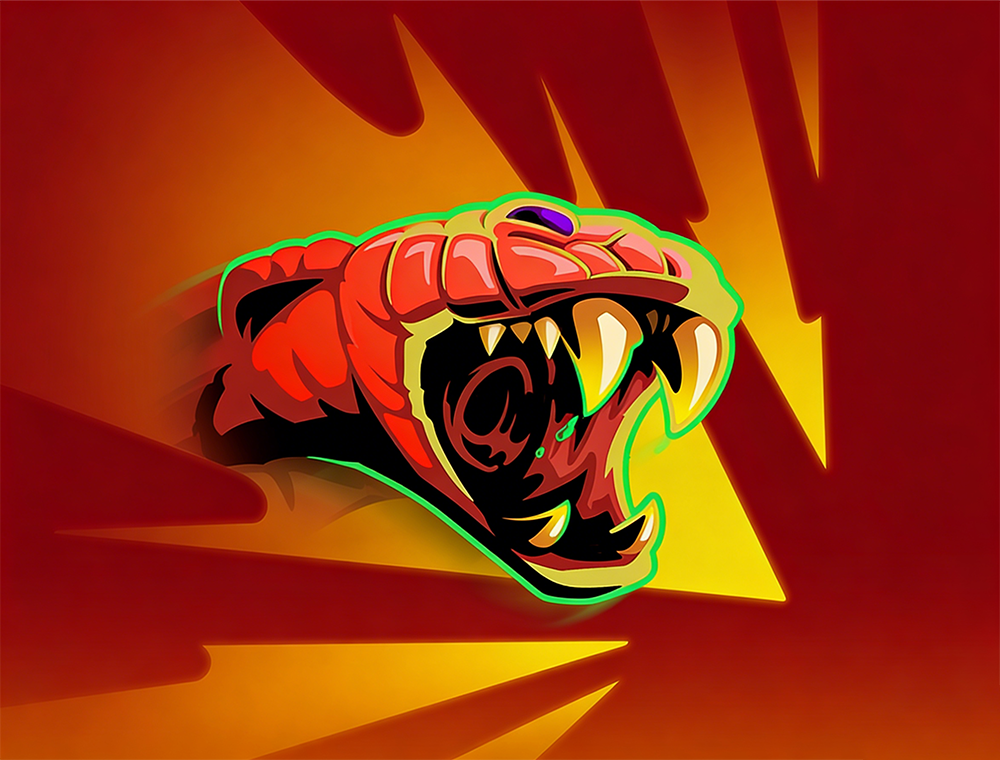
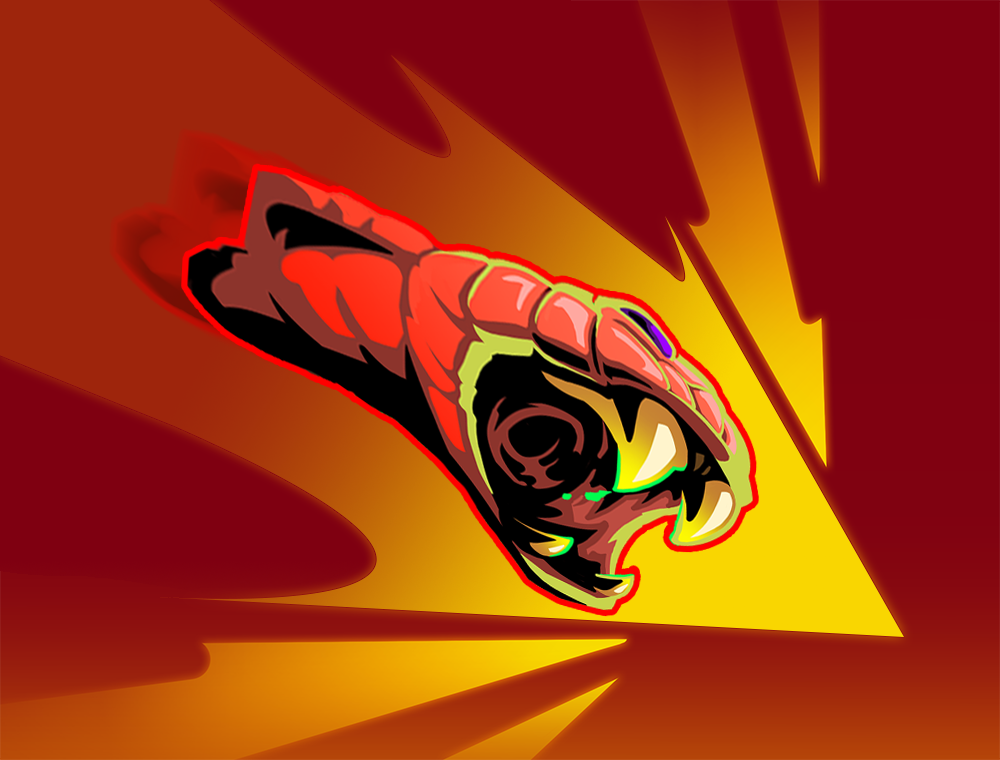
1346: 修改小刀卡图并添加紧勒卡图。紧勒有bug: 会造成群伤且数值和卡面描述不等 (#6)

diff --git a/SBModCode/Extensions/CardImagePatch.cs b/SBModCode/Extensions/CardImagePatch.cs
@@ -25,7 +25,8 @@ public static class CardImagePatch
         typeof(FanOfKnives),
         typeof(Shiv),
         typeof(StormOfSteel),
-        typeof(DramaticEntrance)
+        typeof(DramaticEntrance),
+        typeof(Strangle)
     };
 
     [HarmonyPatch(typeof(CardModel), "HasPortrait", MethodType.Getter)]
